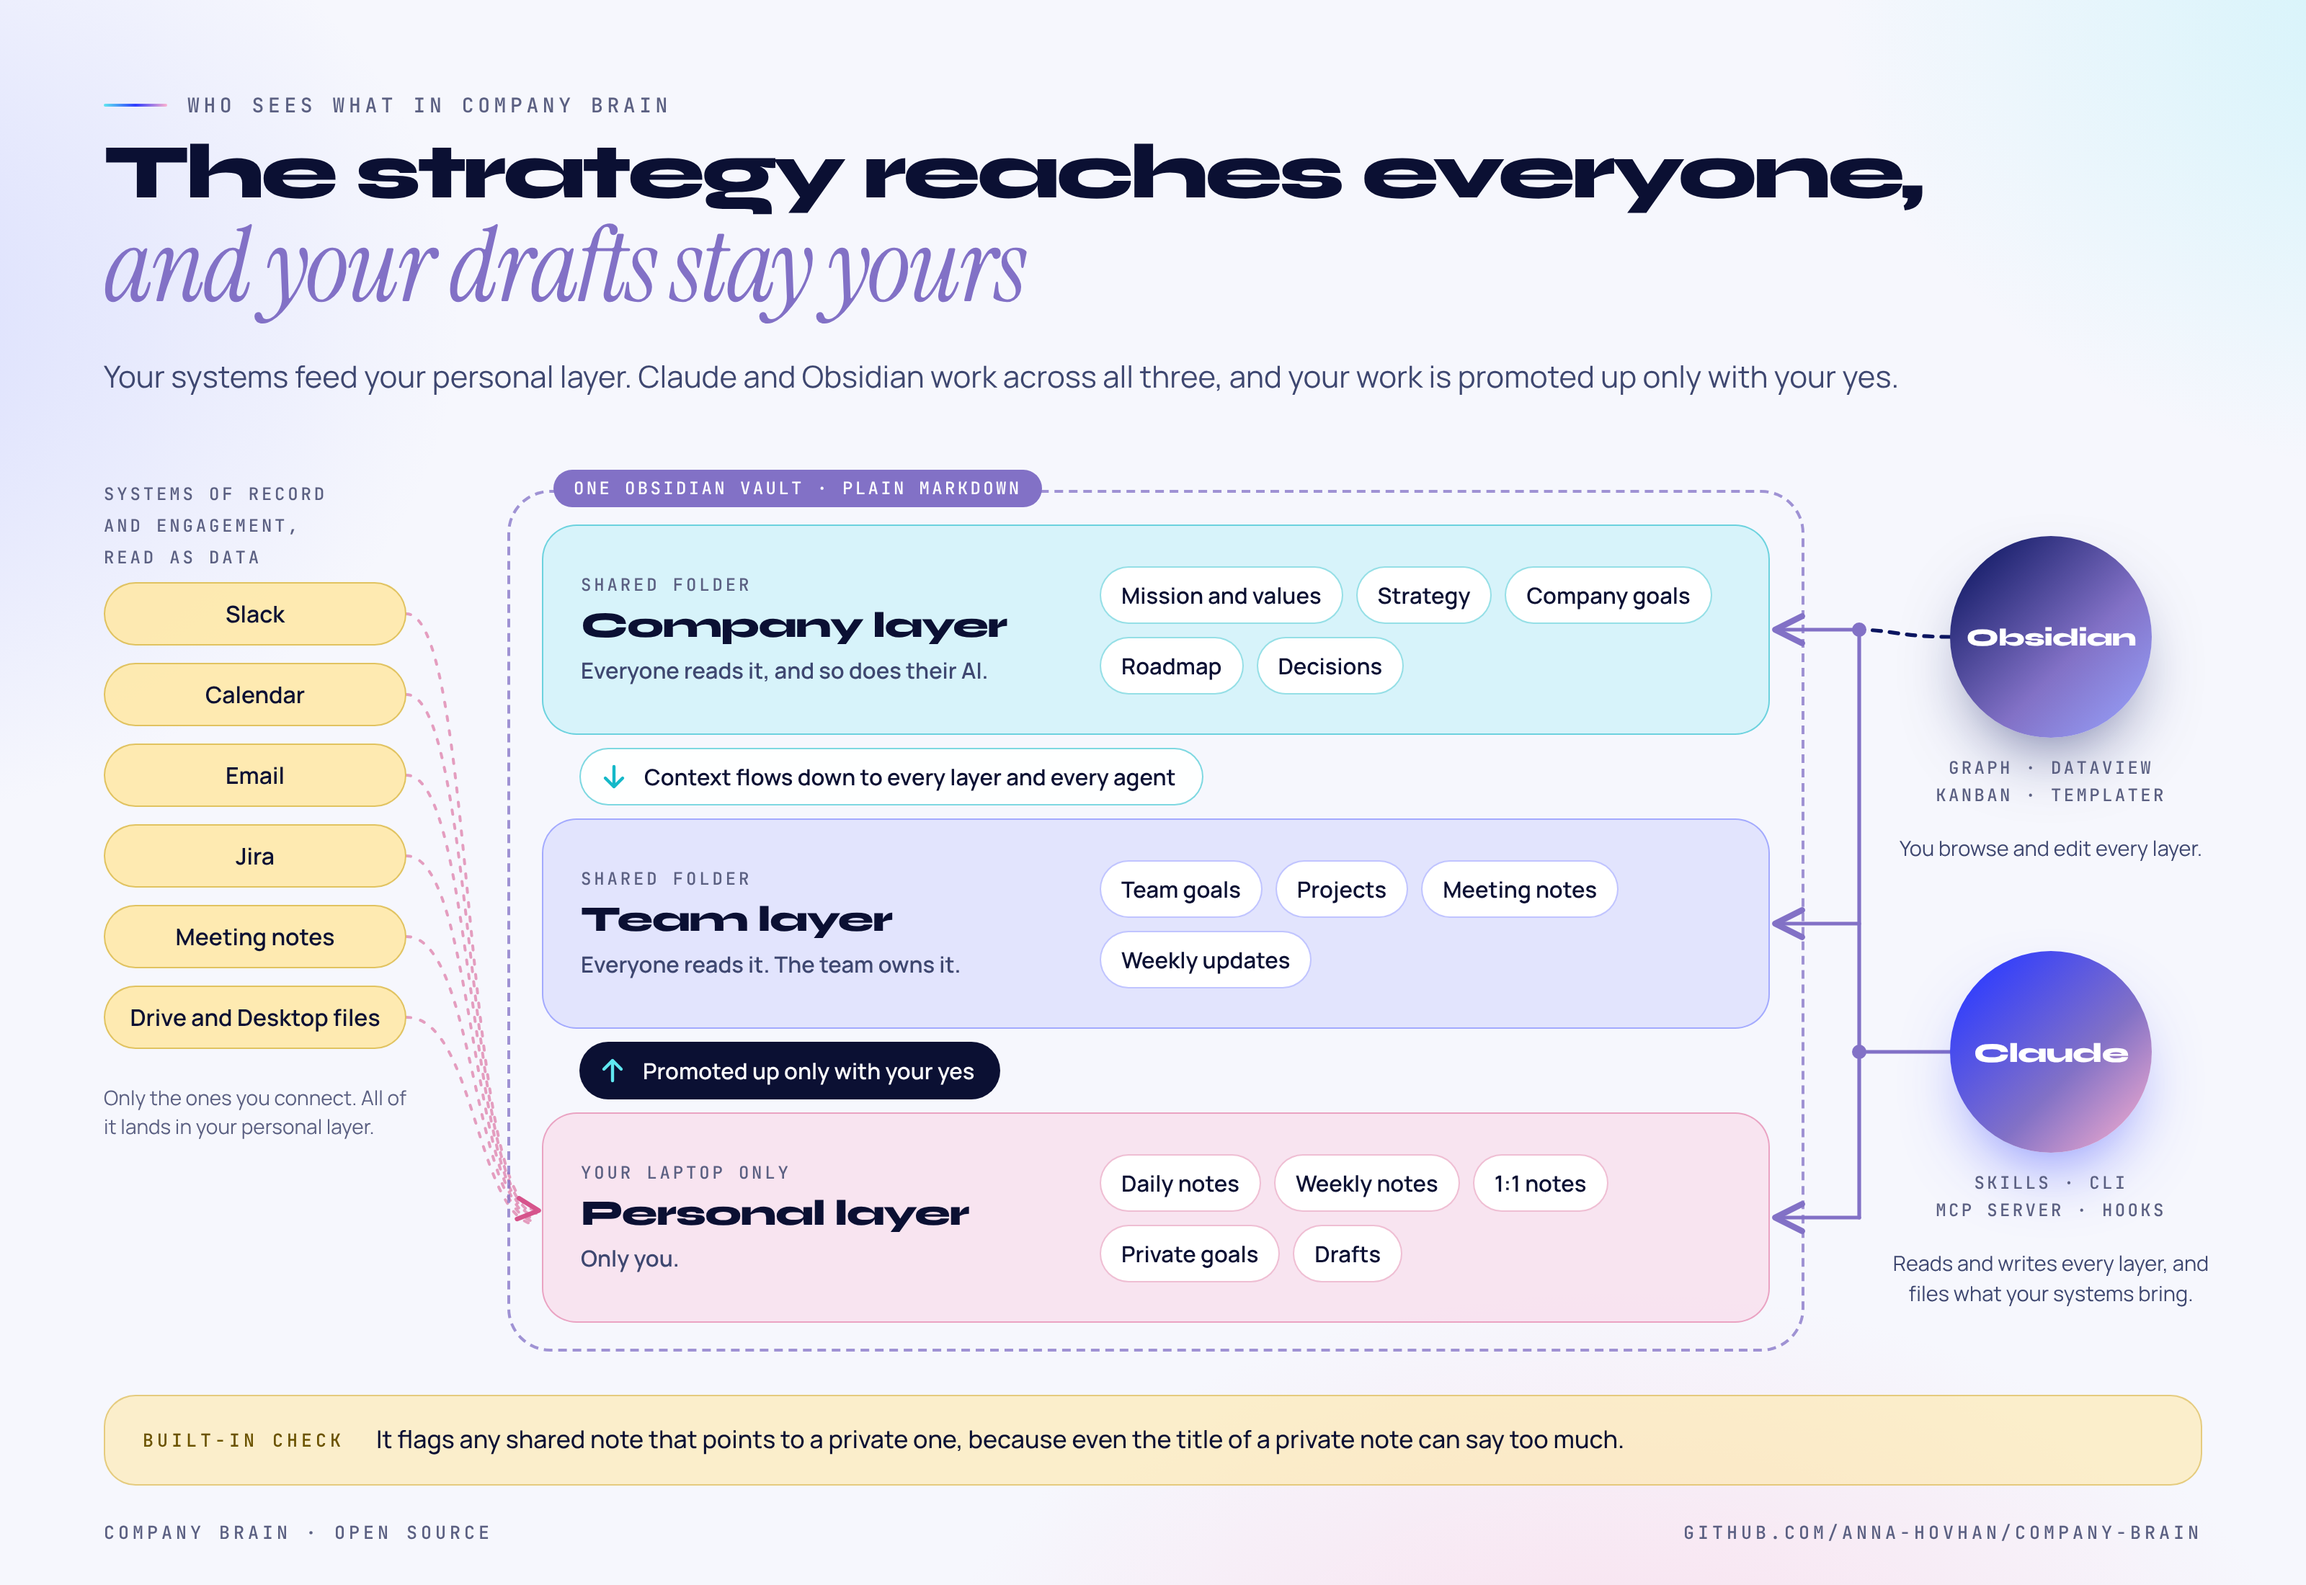
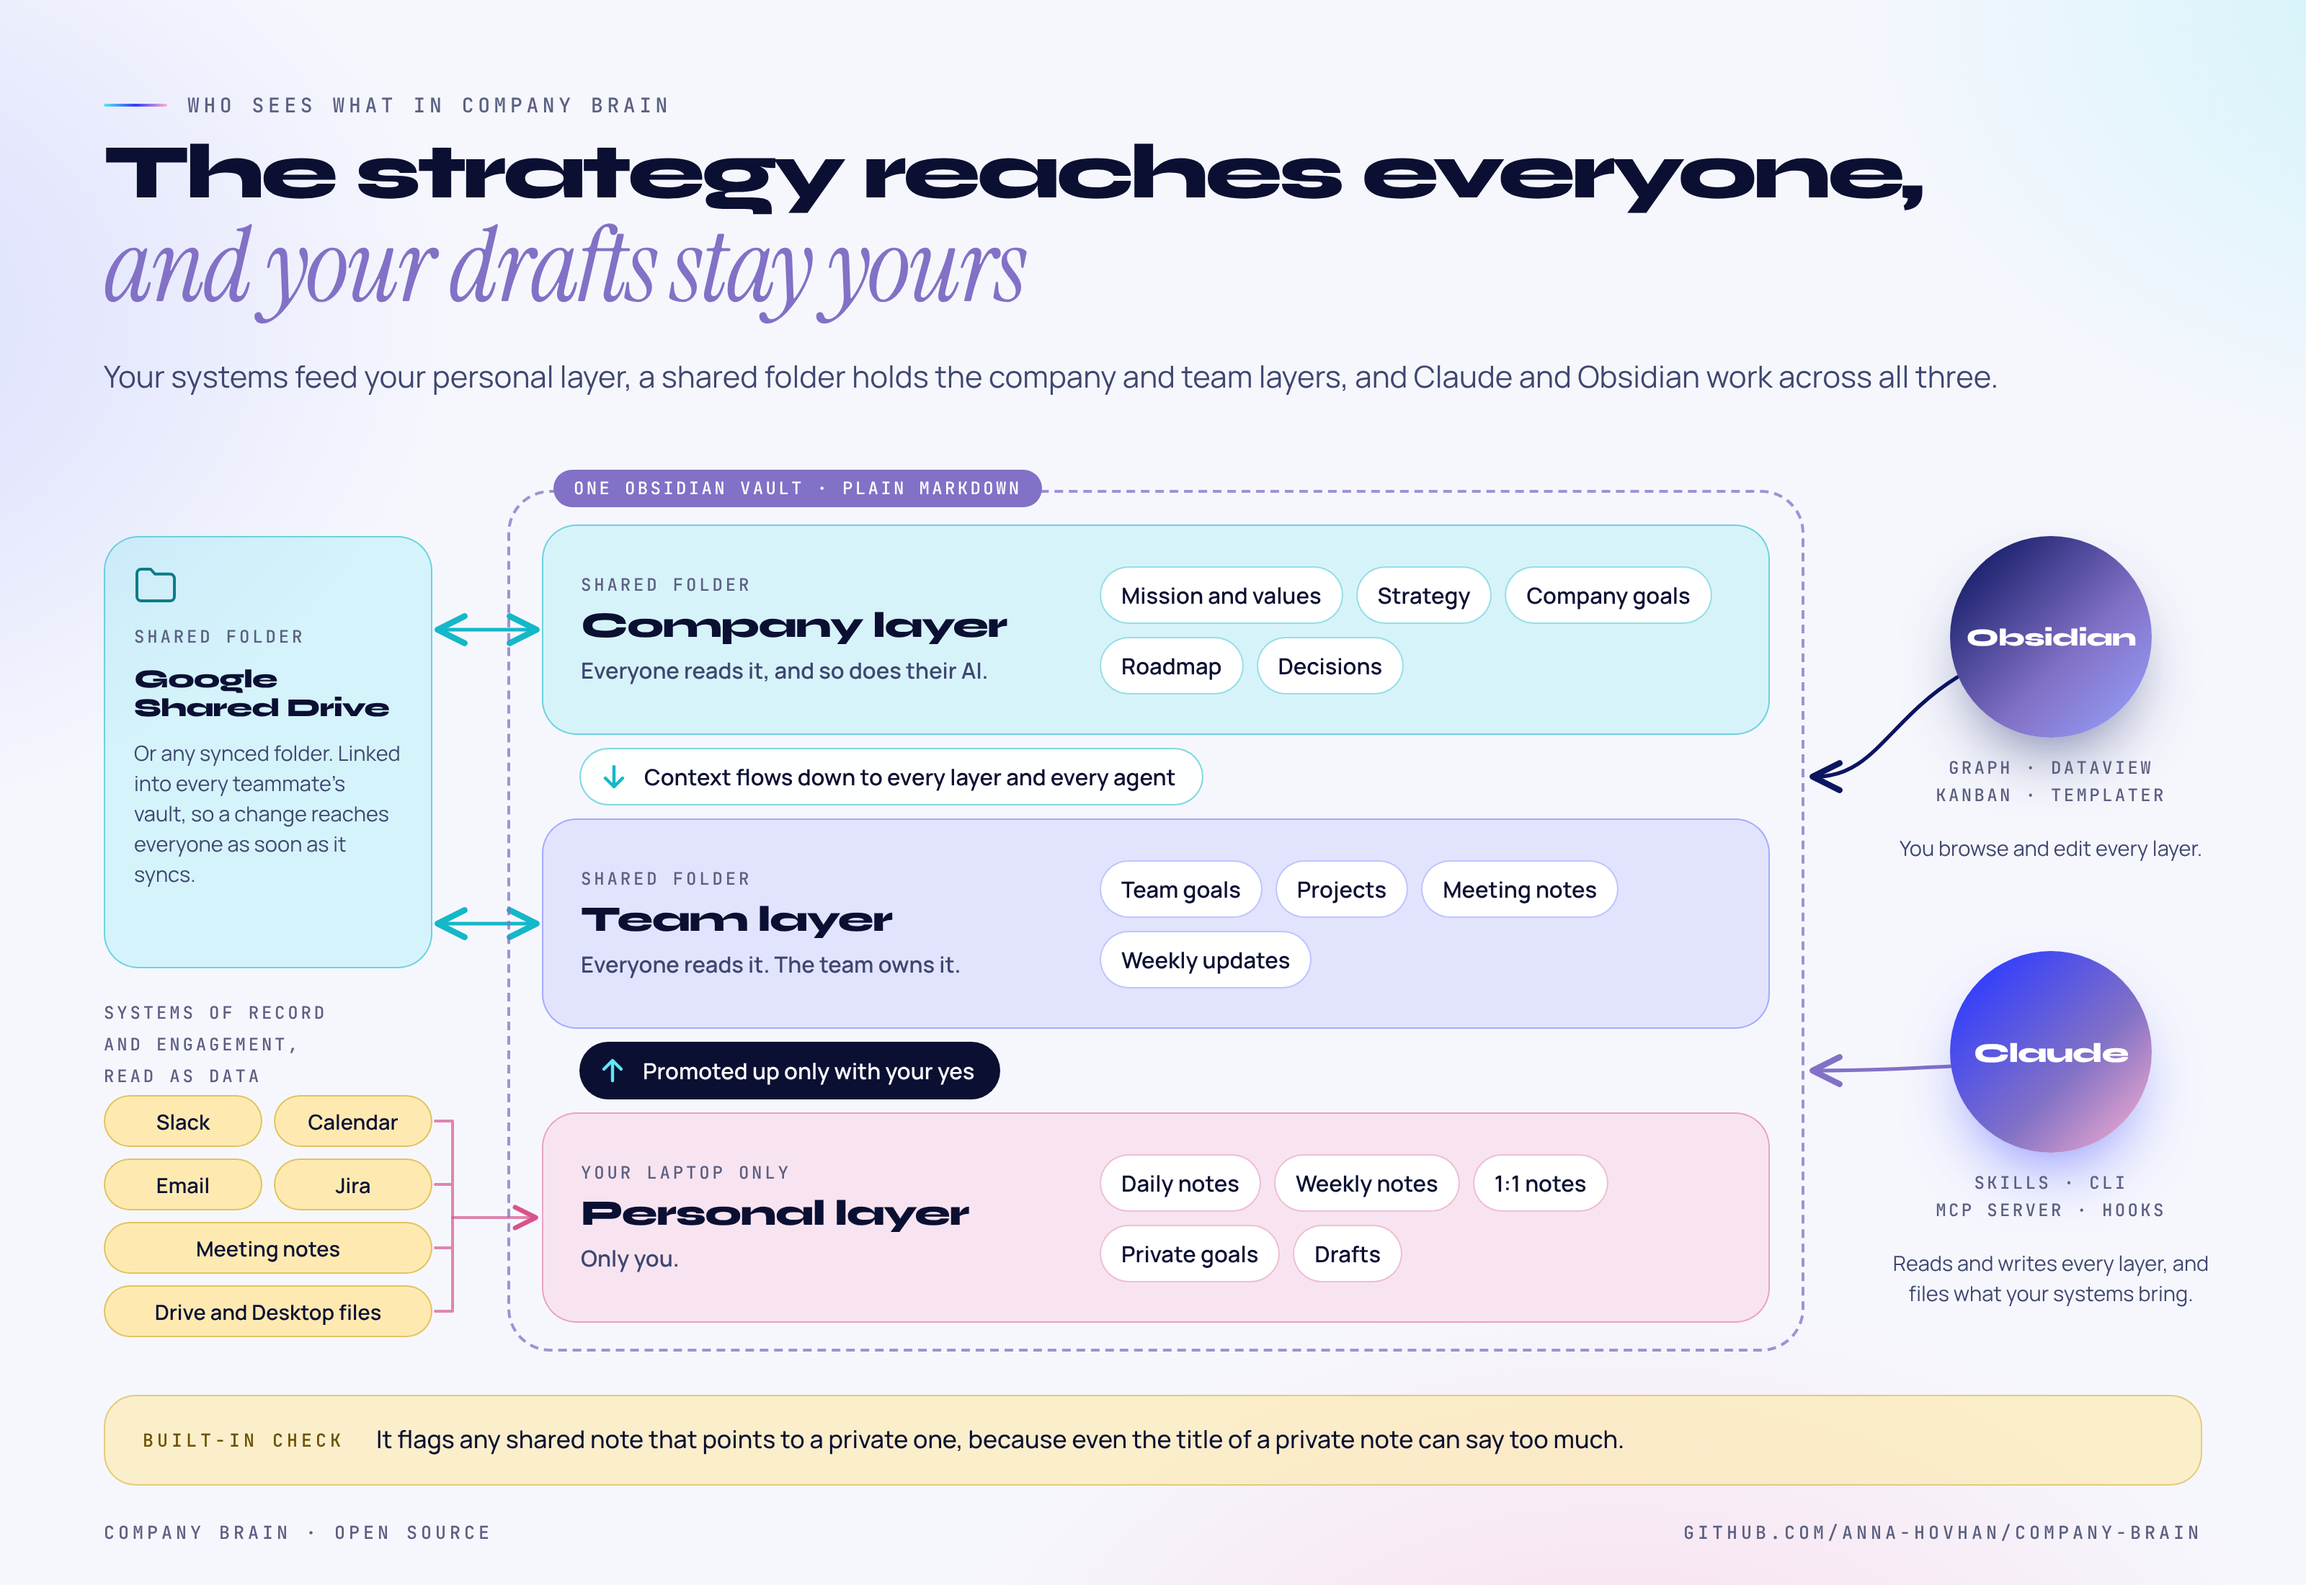
Add the shared folder and one arrow each for Obsidian and Claude
Claude-Session: https://claude.ai/code/session_01MomxP9W6KhHwKaZavrdhrF

diff --git a/examples/linkedin-company-brain-short/05-layers-inputs-and-tools.html b/examples/linkedin-company-brain-short/05-layers-inputs-and-tools.html
@@ -5,7 +5,7 @@
 <title>The strategy reaches everyone, in three layers</title>
 <!--
   Layers version of 04-floors-inputs-and-tools.html (2026-11-10): layers instead of floors, Obsidian as prominent as Claude. Variant of 02-three-floors.html (poster format, landscape), 1600x1100, exported at 2x.
-  Adds the inputs on the left (read as data, they land on your desk) and Obsidian and Claude on the right.
+  Left: the shared folder linked into the company and team layers, and the systems of record and engagement feeding the personal layer. Right: Obsidian and Claude, one arrow each into the vault.
   Facts from company-brain: System/Layers and privacy.md ("What Claude pulls from your tools"),
   .company-brain/skills/weekly and connect, README.md "How Claude accesses it", CLAUDE.md sections 1 and 6.
   Fixed coordinates so the connectors in the SVG land on their shapes.
@@ -28,13 +28,16 @@ body{font-family:'Manrope',sans-serif;color:var(--ink);background:#f6f7fd}
 .label i{display:block;width:44px;height:2px;border-radius:2px;background:linear-gradient(90deg,var(--aqua),var(--primary),var(--blush))}
 h1{left:72px;top:92px;font-family:'Syne',sans-serif;font-weight:800;font-size:54px;letter-spacing:-.045em;line-height:1.02}
 h1 em{display:block;font-family:'Instrument Serif',serif;font-style:italic;font-weight:400;font-size:72px;letter-spacing:-.02em;line-height:1;color:var(--dream);margin-top:2px}
-.sub{left:72px;top:246px;font-size:21px;line-height:1.5;color:var(--ink2);width:1300px}
+.sub{left:72px;top:246px;font-size:21px;line-height:1.5;color:var(--ink2);width:1420px}
 svg.wires{left:0;top:0;width:1600px;height:1100px}
 /* inputs */
-.inputs{left:72px;top:330px;width:220px}
+.share{left:72px;top:372px;width:228px;height:300px;padding:20px 20px;border-radius:24px;background:rgba(96,231,240,.22);border:1.5px solid rgba(20,184,200,.55)}
+.share .mono{font-size:12px;letter-spacing:.16em}
+.share h3{font-family:'Syne',sans-serif;font-weight:800;font-size:18px;letter-spacing:-.03em;line-height:1.1;margin-top:12px}
+.share p{font-size:14.5px;line-height:1.45;color:var(--ink2);margin-top:10px}
+.inputs{left:72px;top:690px;width:240px}
 .inputs .mono{font-size:12px;letter-spacing:.16em;line-height:1.5}
-.inp{position:absolute;left:72px;width:210px;height:44px;display:flex;align-items:center;justify-content:center;border-radius:100px;font-size:16px;font-weight:600;background:rgba(255,231,163,.85);border:1.5px solid rgba(201,162,31,.55)}
-.inputs-note{left:72px;top:752px;width:210px;font-size:14px;line-height:1.45;color:var(--ink3)}
+.inp{position:absolute;height:36px;display:flex;align-items:center;justify-content:center;border-radius:100px;font-size:14.5px;font-weight:600;background:rgba(255,231,163,.85);border:1.5px solid rgba(201,162,31,.55)}
 /* vault and floors */
 .vault{left:352px;top:340px;width:900px;height:598px;border:2px dashed rgba(130,113,198,.75);border-radius:30px}
 .vault-tag{left:384px;top:326px;padding:5px 14px;border-radius:100px;background:var(--dream);color:#fff;font-family:'JetBrains Mono',monospace;font-size:12px;letter-spacing:.14em;text-transform:uppercase}
@@ -72,46 +75,44 @@ svg.wires{left:0;top:0;width:1600px;height:1100px}
 <div class="page">
   <div class="abs label"><i></i><span class="mono">Who sees what in Company Brain</span></div>
   <h1 class="abs">The strategy reaches everyone, <em>and your drafts stay yours</em></h1>
-  <p class="abs sub">Your systems feed your personal layer. Claude and Obsidian work across all three, and your work is promoted up only with your yes.</p>
+  <p class="abs sub">Your systems feed your personal layer, a shared folder holds the company and team layers, and Claude and Obsidian work across all three.</p>
 
   <!-- connectors, drawn under the shapes -->
   <svg class="abs wires" viewBox="0 0 1600 1100" fill="none" stroke-linecap="round">
     <defs>
       <marker id="arr" viewBox="0 0 10 10" refX="8" refY="5" markerWidth="9" markerHeight="9" orient="auto"><path d="M1 1 L9 5 L1 9" fill="none" stroke="#8271c6" stroke-width="1.8" stroke-linejoin="round"/></marker>
       <marker id="arrn" viewBox="0 0 10 10" refX="8" refY="5" markerWidth="9" markerHeight="9" orient="auto"><path d="M1 1 L9 5 L1 9" fill="none" stroke="#0b1560" stroke-width="1.8" stroke-linejoin="round"/></marker>
+      <marker id="arra" viewBox="0 0 10 10" refX="8" refY="5" markerWidth="9" markerHeight="9" orient="auto-start-reverse"><path d="M1 1 L9 5 L1 9" fill="none" stroke="#14b8c8" stroke-width="1.8" stroke-linejoin="round"/></marker>
       <marker id="arrp" viewBox="0 0 10 10" refX="8" refY="5" markerWidth="9" markerHeight="9" orient="auto"><path d="M1 1 L9 5 L1 9" fill="none" stroke="#d6548c" stroke-width="1.8" stroke-linejoin="round"/></marker>
     </defs>
-    <!-- inputs to your desk: chips centred at y 426, 482, 538, 594, 650, 706; desk left edge x 376, y 845 -->
-    <g stroke="#d6548c" stroke-opacity=".55" stroke-width="2" stroke-dasharray="3 7">
-      <path d="M282 426 C 330 426, 320 835, 372 840" marker-end="url(#arrp)"/>
-      <path d="M282 482 C 330 482, 322 838, 372 842"/>
-      <path d="M282 538 C 330 538, 324 840, 372 844"/>
-      <path d="M282 594 C 330 594, 326 842, 372 846"/>
-      <path d="M282 650 C 330 650, 328 844, 372 848"/>
-      <path d="M282 706 C 330 706, 330 846, 372 850"/>
+    <!-- shared folder box (right edge x 300) linked into the company layer (y 437) and the team layer (y 641), left edge x 376 -->
+    <g stroke="#14b8c8" stroke-width="2.6">
+      <path d="M306 437 H 370" marker-start="url(#arra)" marker-end="url(#arra)"/>
+      <path d="M306 641 H 370" marker-start="url(#arra)" marker-end="url(#arra)"/>
     </g>
-    <!-- Obsidian and Claude both reach every layer: a rail at x 1290 with an arrow into each layer (right edge x 1228) -->
-    <g stroke="#8271c6" stroke-width="2.6">
-      <path d="M1290 437 V 845"/>
-      <path d="M1290 437 H 1234" marker-end="url(#arr)"/>
-      <path d="M1290 641 H 1234" marker-end="url(#arr)"/>
-      <path d="M1290 845 H 1234" marker-end="url(#arr)"/>
+    <!-- systems: chip rows centred at y 778, 822, 866, 910; a bracket at x 314 into the personal layer at y 845 -->
+    <g stroke="#d6548c" stroke-opacity=".7" stroke-width="2">
+      <path d="M302 778 H 314 M302 822 H 314 M302 866 H 314 M302 910 H 314 M314 778 V 910"/>
+      <path d="M314 845 H 370" marker-end="url(#arrp)"/>
     </g>
-    <!-- Obsidian circle centre (1423,442); Claude circle centre (1423,730) -->
-    <path d="M1353 442 C 1320 442, 1310 437, 1290 437" stroke="#0b1560" stroke-width="2.6" stroke-dasharray="6 6"/>
-    <path d="M1353 730 C 1320 730, 1310 730, 1290 730" stroke="#8271c6" stroke-width="2.6"/>
-    <circle cx="1290" cy="437" r="5" fill="#8271c6" stroke="none"/>
-    <circle cx="1290" cy="730" r="5" fill="#8271c6" stroke="none"/>
+    <!-- one arrow each into the vault (right border x 1252), landing between layers -->
+    <path d="M1358 470 C 1310 500, 1300 539, 1260 539" stroke="#0b1560" stroke-width="2.6" marker-end="url(#arrn)"/>
+    <path d="M1354 740 C 1310 742, 1300 743, 1260 743" stroke="#8271c6" stroke-width="2.6" marker-end="url(#arr)"/>
   </svg>
 
+  <div class="abs share">
+    <svg width="30" height="26" viewBox="0 0 30 26" fill="none" stroke="#0e7c88" stroke-width="2" stroke-linejoin="round"><path d="M2 5a3 3 0 0 1 3-3h6.5l3 3.4H25a3 3 0 0 1 3 3V21a3 3 0 0 1-3 3H5a3 3 0 0 1-3-3z"/></svg>
+    <div class="mono" style="margin-top:10px">Shared folder</div>
+    <h3>Google Shared Drive</h3>
+    <p>Or any synced folder. Linked into every teammate's vault, so a change reaches everyone as soon as it syncs.</p>
+  </div>
   <div class="abs inputs"><span class="mono">Systems of record<br>and engagement,<br>read as data</span></div>
-  <span class="inp" style="top:404px">Slack</span>
-  <span class="inp" style="top:460px">Calendar</span>
-  <span class="inp" style="top:516px">Email</span>
-  <span class="inp" style="top:572px">Jira</span>
-  <span class="inp" style="top:628px">Meeting notes</span>
-  <span class="inp" style="top:684px">Drive and Desktop files</span>
-  <p class="abs inputs-note">Only the ones you connect. All of it lands in your personal layer.</p>
+  <span class="inp" style="left:72px;top:760px;width:110px">Slack</span>
+  <span class="inp" style="left:190px;top:760px;width:110px">Calendar</span>
+  <span class="inp" style="left:72px;top:804px;width:110px">Email</span>
+  <span class="inp" style="left:190px;top:804px;width:110px">Jira</span>
+  <span class="inp" style="left:72px;top:848px;width:228px">Meeting notes</span>
+  <span class="inp" style="left:72px;top:892px;width:228px">Drive and Desktop files</span>
 
   <div class="abs vault"></div>
   <span class="abs vault-tag">One Obsidian vault · plain markdown</span>

diff --git a/examples/linkedin-company-brain-short/README.md b/examples/linkedin-company-brain-short/README.md
@@ -8,7 +8,7 @@ The visuals for the short rewrite (2026-11-09) of the LinkedIn article about [Co
 | `02-three-floors.png` | "The strategy reaches everyone, and your drafts stay yours": the company, team and personal floors, what flows down and what moves up | `/explainer`, poster format, landscape |
 | `03-friday-and-monday.png` | "Your weekly note, drafted from the week you actually had": what you, your team and your lead get from one line on Friday, and how an update ladders to the mission | `/explainer`, poster format, landscape |
 | `04-floors-inputs-and-tools.png` | Variant of `02` for a README or a talk: the same floors, with your tools (Slack, calendar, email, Jira, meeting notes, Drive and Desktop files) feeding your desk on the left, and Obsidian and Claude working on every floor on the right | `/explainer`, poster format, landscape, 1600x1100 at 2x |
-| `05-layers-inputs-and-tools.png` | `04` for AI-savvy readers: layers instead of floors, promotion named, and Obsidian in its own circle as prominent as Claude. The company-brain README overview image since 2026-11-10 | `/explainer`, poster format, landscape, 1600x1100 at 2x |
+| `05-layers-inputs-and-tools.png` | `04` for AI-savvy readers: layers instead of floors, promotion named, the shared folder linked into the company and team layers, and Obsidian and Claude as equal circles with one arrow each into the vault. The company-brain README overview image since 2026-11-10 | `/explainer`, poster format, landscape, 1600x1100 at 2x |
 
 Each PNG has an `.html` source next to it. In-article images are exported at 2x for sharp display.
 
